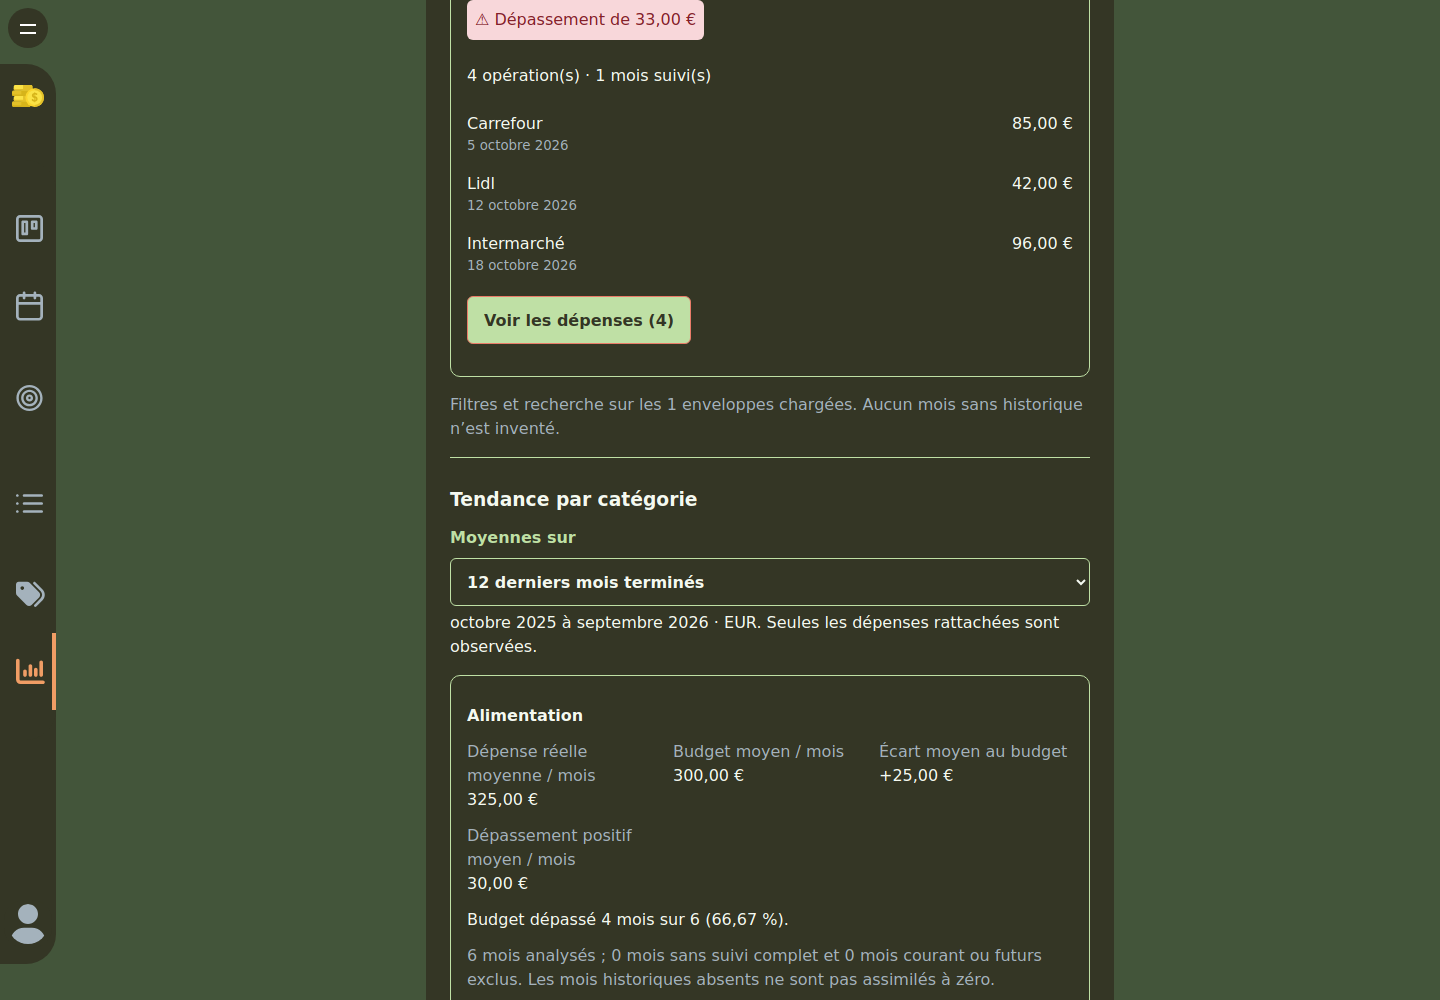
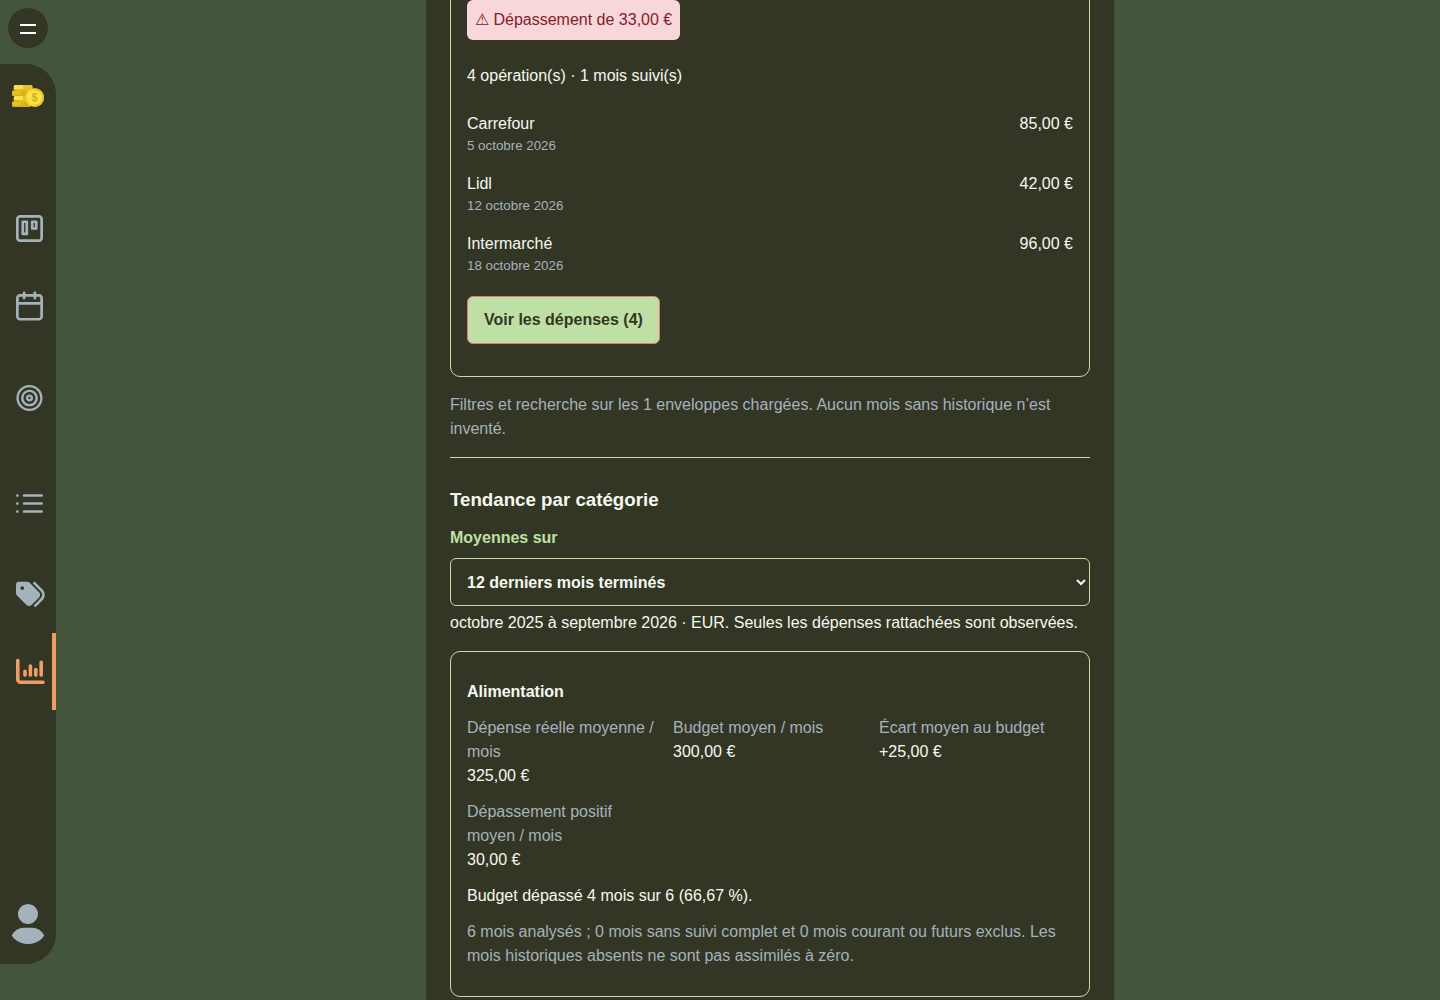
fix(web): preserve legacy budget copy and refresh envelope visual references
Keep the existing calendar explanation when no reconciliation adjustment exists, and update only approved home/analysis references across three viewports and both themes.

diff --git a/src/js/components/BudgetCalendar/BudgetSummary.jsx b/src/js/components/BudgetCalendar/BudgetSummary.jsx
@@ -59,8 +59,10 @@ export const CarryHelp = ({ summary }) =>
             summary.carryFromMonth
           )} est ajouté à ce mois.`}{" "}
       Le résultat du mois correspond à vos revenus et charges fixes, plus vos
-      entrées, moins vos dépenses, avec le rapprochement des enveloppes
-      lorsqu’il est disponible.
+      entrées, moins vos dépenses.
+      {summary.reconciliationAdjustment !== undefined &&
+        Number(summary.reconciliationAdjustment) !== 0 &&
+        " Le rapprochement des enveloppes est déjà inclus dans ce résultat."}
     </p>
   ) : null;
 

diff --git a/src/js/components/Envelopes/EnvelopeSection.jsx b/src/js/components/Envelopes/EnvelopeSection.jsx
@@ -396,8 +396,7 @@ export const EnvelopeSection = ({ analysis = false }) => {
       <p className="envelope-help">
         Pendant le mois, le budget reste réservé jusqu’à son montant prévu. À la
         clôture, le réalisé rattaché le remplace. Sans dépense rattachée, le
-        prévu reste réservé. Le solde mensuel du backend intègre ce
-        rapprochement.
+        prévu reste réservé. Le solde mensuel intègre ce rapprochement.
       </p>
     </section>
   );
